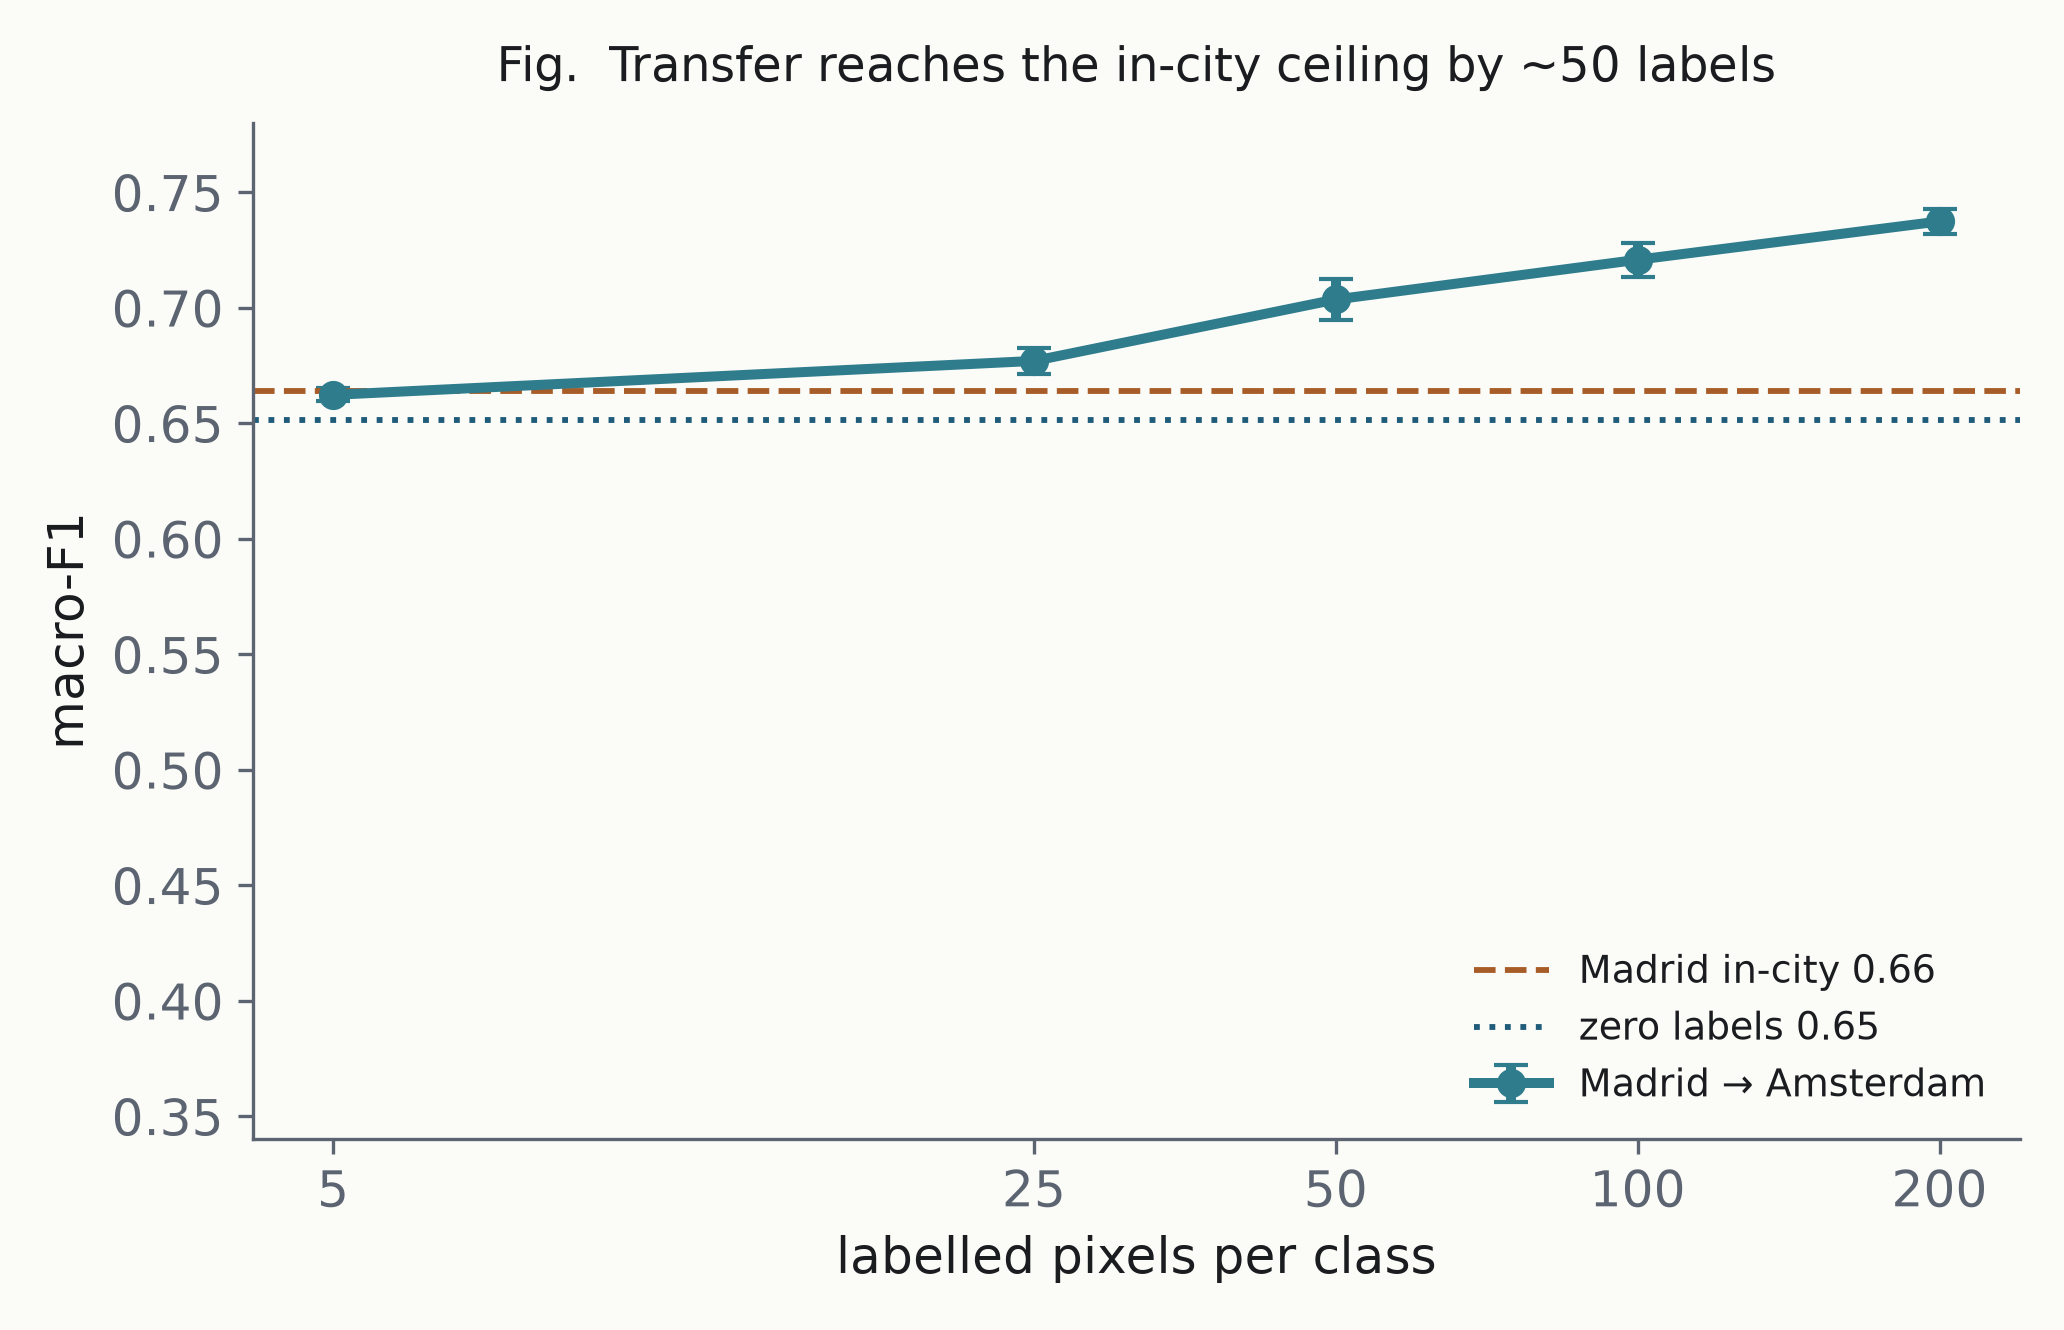
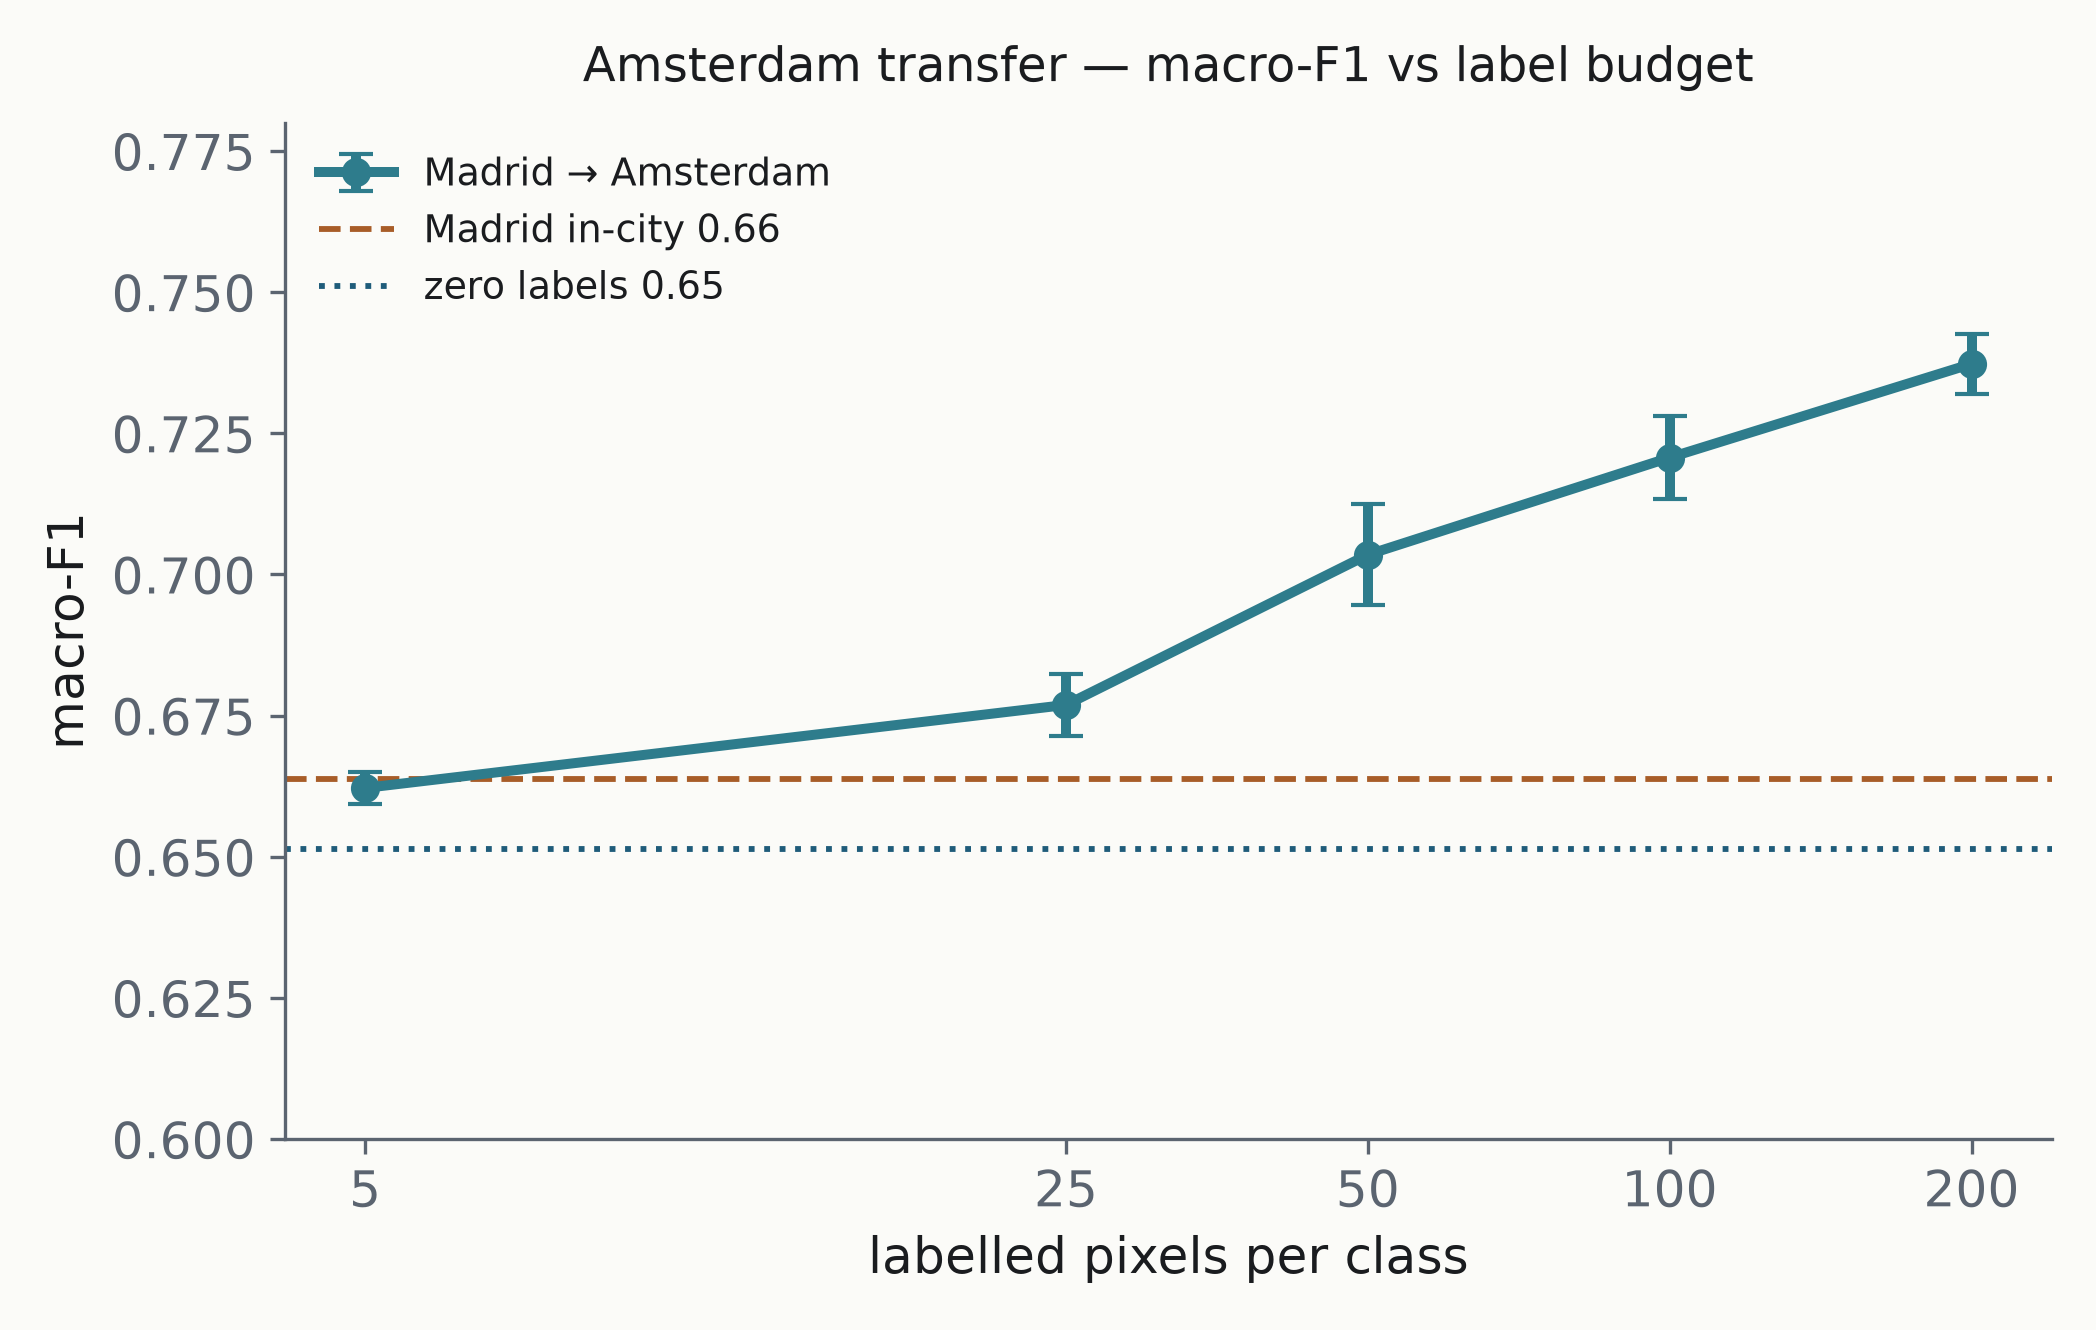
Slide 3 curve: neutral title, tighter y-axis, series-first legend
Title -> "Amsterdam transfer - macro-F1 vs label budget" (the old
"reaches the in-city ceiling by ~50 labels" overclaimed next to slide 5).
y-axis 0.60-0.78 so the shape reads instead of sitting flat in a 0.34
floor. Also save straight to fig_slide3_curve.png.

diff --git a/scripts/make_slide_figures.py b/scripts/make_slide_figures.py
@@ -234,12 +234,14 @@ def curve():
     ax.set_xticklabels(shots)
     ax.set_xlabel("labelled pixels per class")
     ax.set_ylabel("macro-F1")
-    ax.set_ylim(0.34, 0.78)
+    ax.set_ylim(0.60, 0.78)
     ax.spines["top"].set_visible(False); ax.spines["right"].set_visible(False)
-    ax.legend(frameon=False, fontsize=9, loc="lower right")
-    ax.set_title("Fig.  Transfer reaches the in-city ceiling by ~50 labels",
+    h, l = ax.get_legend_handles_labels()
+    ax.legend([h[2], h[0], h[1]], [l[2], l[0], l[1]],
+              frameon=False, fontsize=9, loc="upper left")
+    ax.set_title("Amsterdam transfer — macro-F1 vs label budget",
                  fontsize=11.5, color=INK, pad=10)
-    save(fig, "slide5_curve.png")
+    save(fig, "fig_slide3_curve.png")
 
 
 
